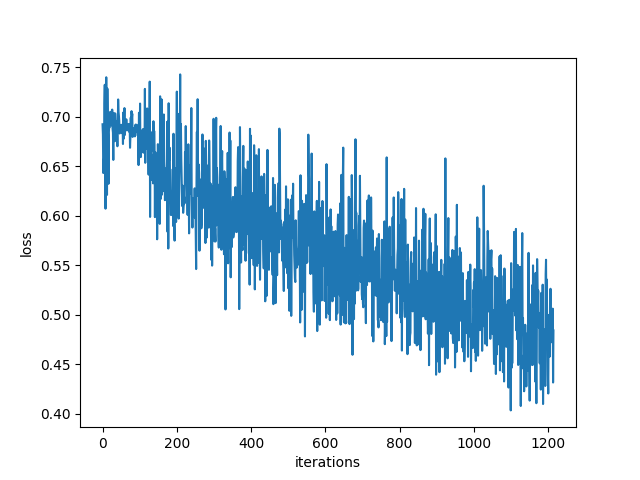
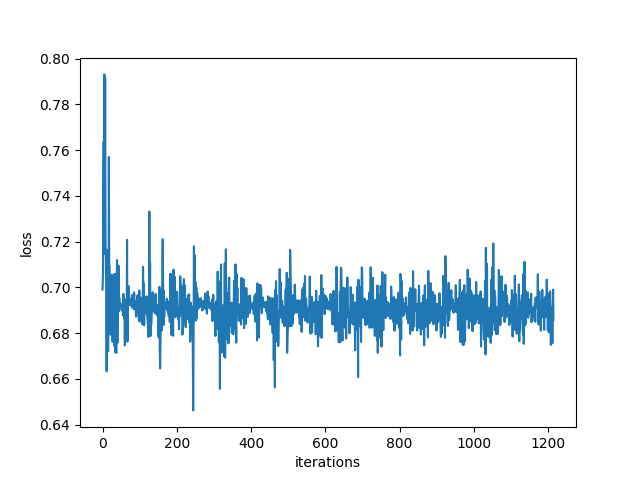
Too high LR

diff --git a/Nick_tests/replicate/gender_model.py b/Nick_tests/replicate/gender_model.py
@@ -234,7 +234,7 @@ model.type(dtype)
 model.train()
 loss_fn = nn.CrossEntropyLoss().type(dtype)
 # 1e-1 too high
-optimizer = optim.Adam(model.parameters(), lr=8e-5,weight_decay=1e-2)
+optimizer = optim.Adam(model.parameters(), lr=8e-5,weight_decay=3e-2)
 print("start training")
 loss_history,acc_history,val_acc_history=train(train_loader,val_loader, model, loss_fn, optimizer, dtype,num_epochs=15, print_every=17)
 
